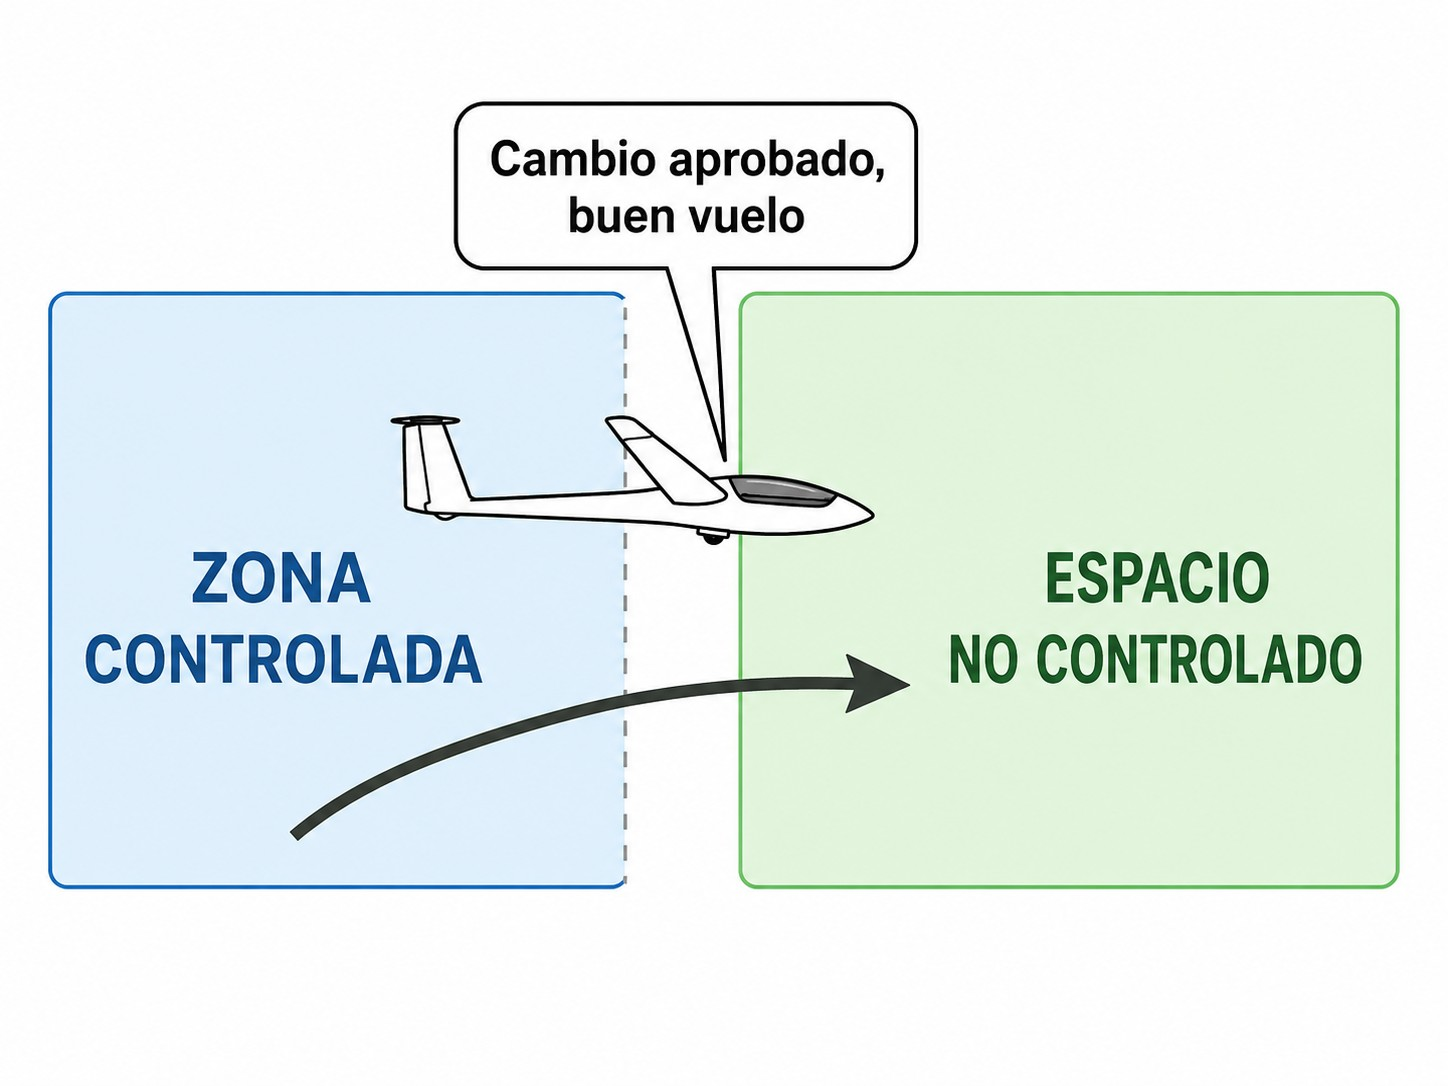
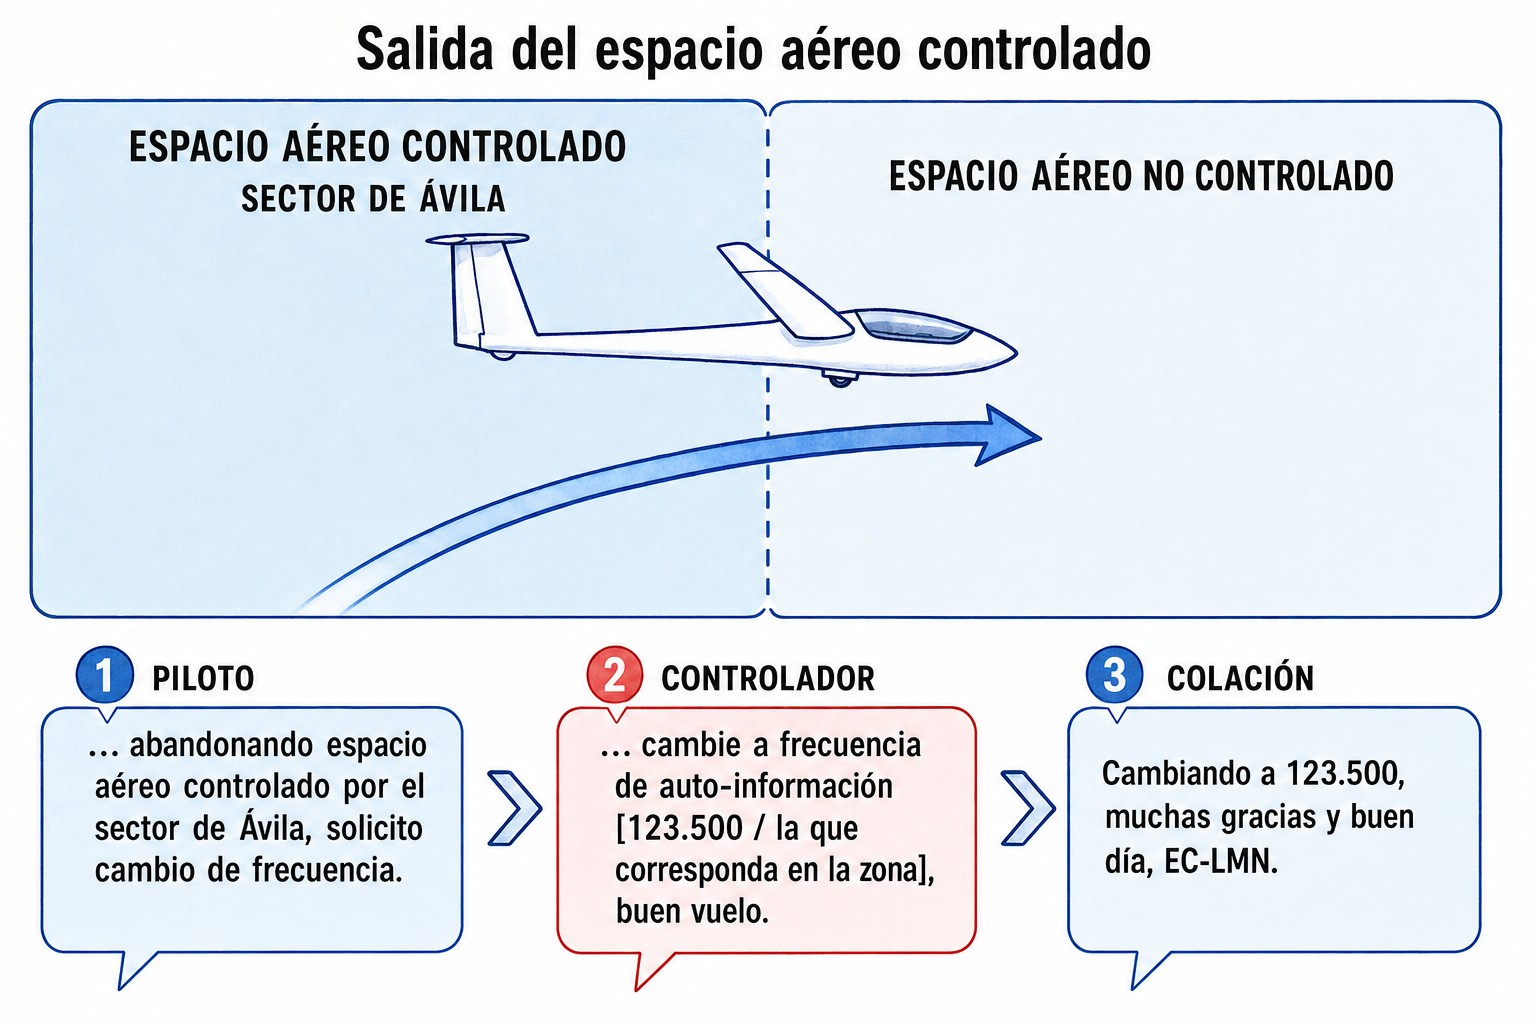
feat(04-comunicaciones): desarrollar la figura del cambio de frecuencia
La ilustración de cap02 resolvía el cambio de frecuencia con una sola viñeta
—«Cambio aprobado, buen vuelo»— que no enseñaba a pedirlo. Ahora desarrolla los
tres pasos del intercambio, con la fraseología de cada uno: petición del piloto,
instrucción del controlador y colación.

Queda una inconsistencia anotada en el CHANGELOG: la figura usa el indicativo
EC-LMN y el cuerpo del capítulo usa EC-DPE en sus tres ejemplos. Hay que
unificarlo, rehaciendo la figura o cambiando el texto.

diff --git a/04-comunicaciones/CHANGELOG-04.md b/04-comunicaciones/CHANGELOG-04.md
@@ -16,6 +16,16 @@ rompe la compilación.
 
 ## [En curso]
 
+**Qué releer:** **cap02, cambio y abandono de frecuencia.** La figura pasa de ilustrar la idea a desarrollar el intercambio completo, con fraseología. Conviene comprobar que dice lo mismo que el cuerpo del apartado (ver el aviso de abajo sobre el indicativo).
+
+### Añadido
+
+* **cap02, cambio de frecuencia** — la ilustración desarrolla ahora los tres pasos del intercambio —petición del piloto, instrucción del controlador y colación— con la fraseología de cada uno, en vez de una sola viñeta con «Cambio aprobado, buen vuelo».
+
+### Pendiente
+
+* **cap02, indicativo de la figura** — la ilustración usa **EC-LMN** y el cuerpo del capítulo usa **EC-DPE** en los tres ejemplos de fraseología. Hay que unificarlo: o se rehace la figura, o se cambia el indicativo del texto.
+
 ## [1.0-rc.10] — 27 de julio de 2026
 
 ### Maqueta y producción
